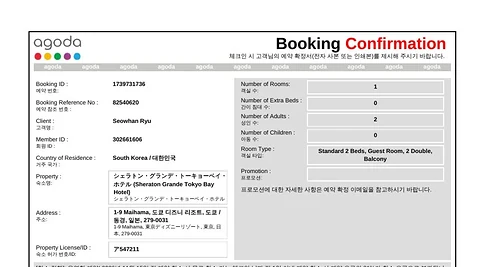
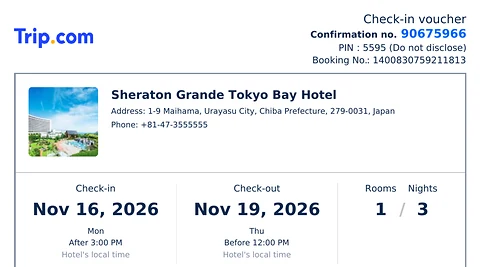
호텔 서류 교체: Trip.com 체크인 바우처 (#24)
* Remove the tape decoration from the Day 3 paper

Claude-Session: https://claude.ai/code/session_01N4RUJrmiRo45NJzMDCNSki

* Intro: keep the index tabs hidden until the whole animation has finished

Claude-Session: https://claude.ai/code/session_01N4RUJrmiRo45NJzMDCNSki

* WIP (local only): eSIM and insurance documents in the passport pockets

Not pushed: the images contain personal details and are waiting for the user's confirmation.

Claude-Session: https://claude.ai/code/session_01N4RUJrmiRo45NJzMDCNSki

* Update hotel voucher: Trip.com check-in voucher replaces the Agoda confirmation

Claude-Session: https://claude.ai/code/session_01N4RUJrmiRo45NJzMDCNSki

---------

diff --git a/index.html b/index.html
@@ -1151,7 +1151,7 @@ a[target="_blank"]::after {
     land: { qr: true, title: '디즈니랜드 티켓 (11/17)', src: 'assets/land-ticket-1.webp', alt: '도쿄 디즈니랜드 1데이 패스포트 11월 17일 첫 번째 티켓', more: [{ src: 'assets/land-ticket-2.webp', alt: '도쿄 디즈니랜드 1데이 패스포트 11월 17일 두 번째 티켓' }] },
     sea: { qr: true, title: '디즈니씨 티켓 (11/18)', src: 'assets/sea-ticket-1.webp', alt: '도쿄 디즈니씨 1데이 패스포트 11월 18일 첫 번째 티켓', more: [{ src: 'assets/sea-ticket-2.webp', alt: '도쿄 디즈니씨 1데이 패스포트 11월 18일 두 번째 티켓' }] },
     taxi: { title: '공항 택시 예약 (11/16 05:00)', src: 'assets/taxi-booking.webp', alt: '11월 16일 오전 5시 서울 서초구에서 김포국제공항 국제선까지 택시 예약 확정 화면' },
-    hotel: { title: '호텔 예약 확인서 (Agoda)', src: 'assets/hotel-voucher.webp', alt: '쉐라톤 그랑데 도쿄 베이 호텔 예약 확인서, 11월 16일 체크인 11월 19일 체크아웃, 성인 2명' },
+    hotel: { title: '호텔 체크인 바우처 (Trip.com)', src: 'assets/hotel-voucher.webp', alt: '쉐라톤 그랑데 도쿄 베이 호텔 Trip.com 체크인 바우처, 11월 16일 체크인 11월 19일 체크아웃, 그랑데 2베드룸, 결제 완료' },
     flight: { title: '항공권 e-티켓 (NH862 · NH867)', src: 'assets/flight-ticket.webp', alt: 'ANA 항공권 e-티켓 일정표, 11월 16일 NH862 김포 하네다, 11월 19일 NH867 하네다 김포' }
   };
   var mImg = document.getElementById('modal-img');

diff --git a/sw.js b/sw.js
@@ -1,5 +1,5 @@
 // Network-first service worker: always tries the latest files, falls back to cache when offline.
-var CACHE = 'tokyo-honeymoon-v6';
+var CACHE = 'tokyo-honeymoon-v7';
 var CORE = ['./', 'index.html', 'manifest.webmanifest', 'icon-180.png', 'icon-512.png', 'assets/mickey.png', 'assets/thumb-taxi.webp', 'assets/thumb-flight.webp', 'assets/thumb-bus.webp', 'assets/thumb-hotel.webp', 'assets/thumb-land.webp', 'assets/thumb-sea.webp', 'assets/thumb-esim.webp', 'assets/thumb-insurance.webp', 'assets/esim.webp', 'assets/insurance.webp',
   'assets/taxi-booking.webp', 'assets/flight-ticket.webp', 'assets/bus-ticket.webp', 'assets/hotel-voucher.webp',
   'assets/land-ticket-1.webp', 'assets/land-ticket-2.webp', 'assets/sea-ticket-1.webp', 'assets/sea-ticket-2.webp'];
